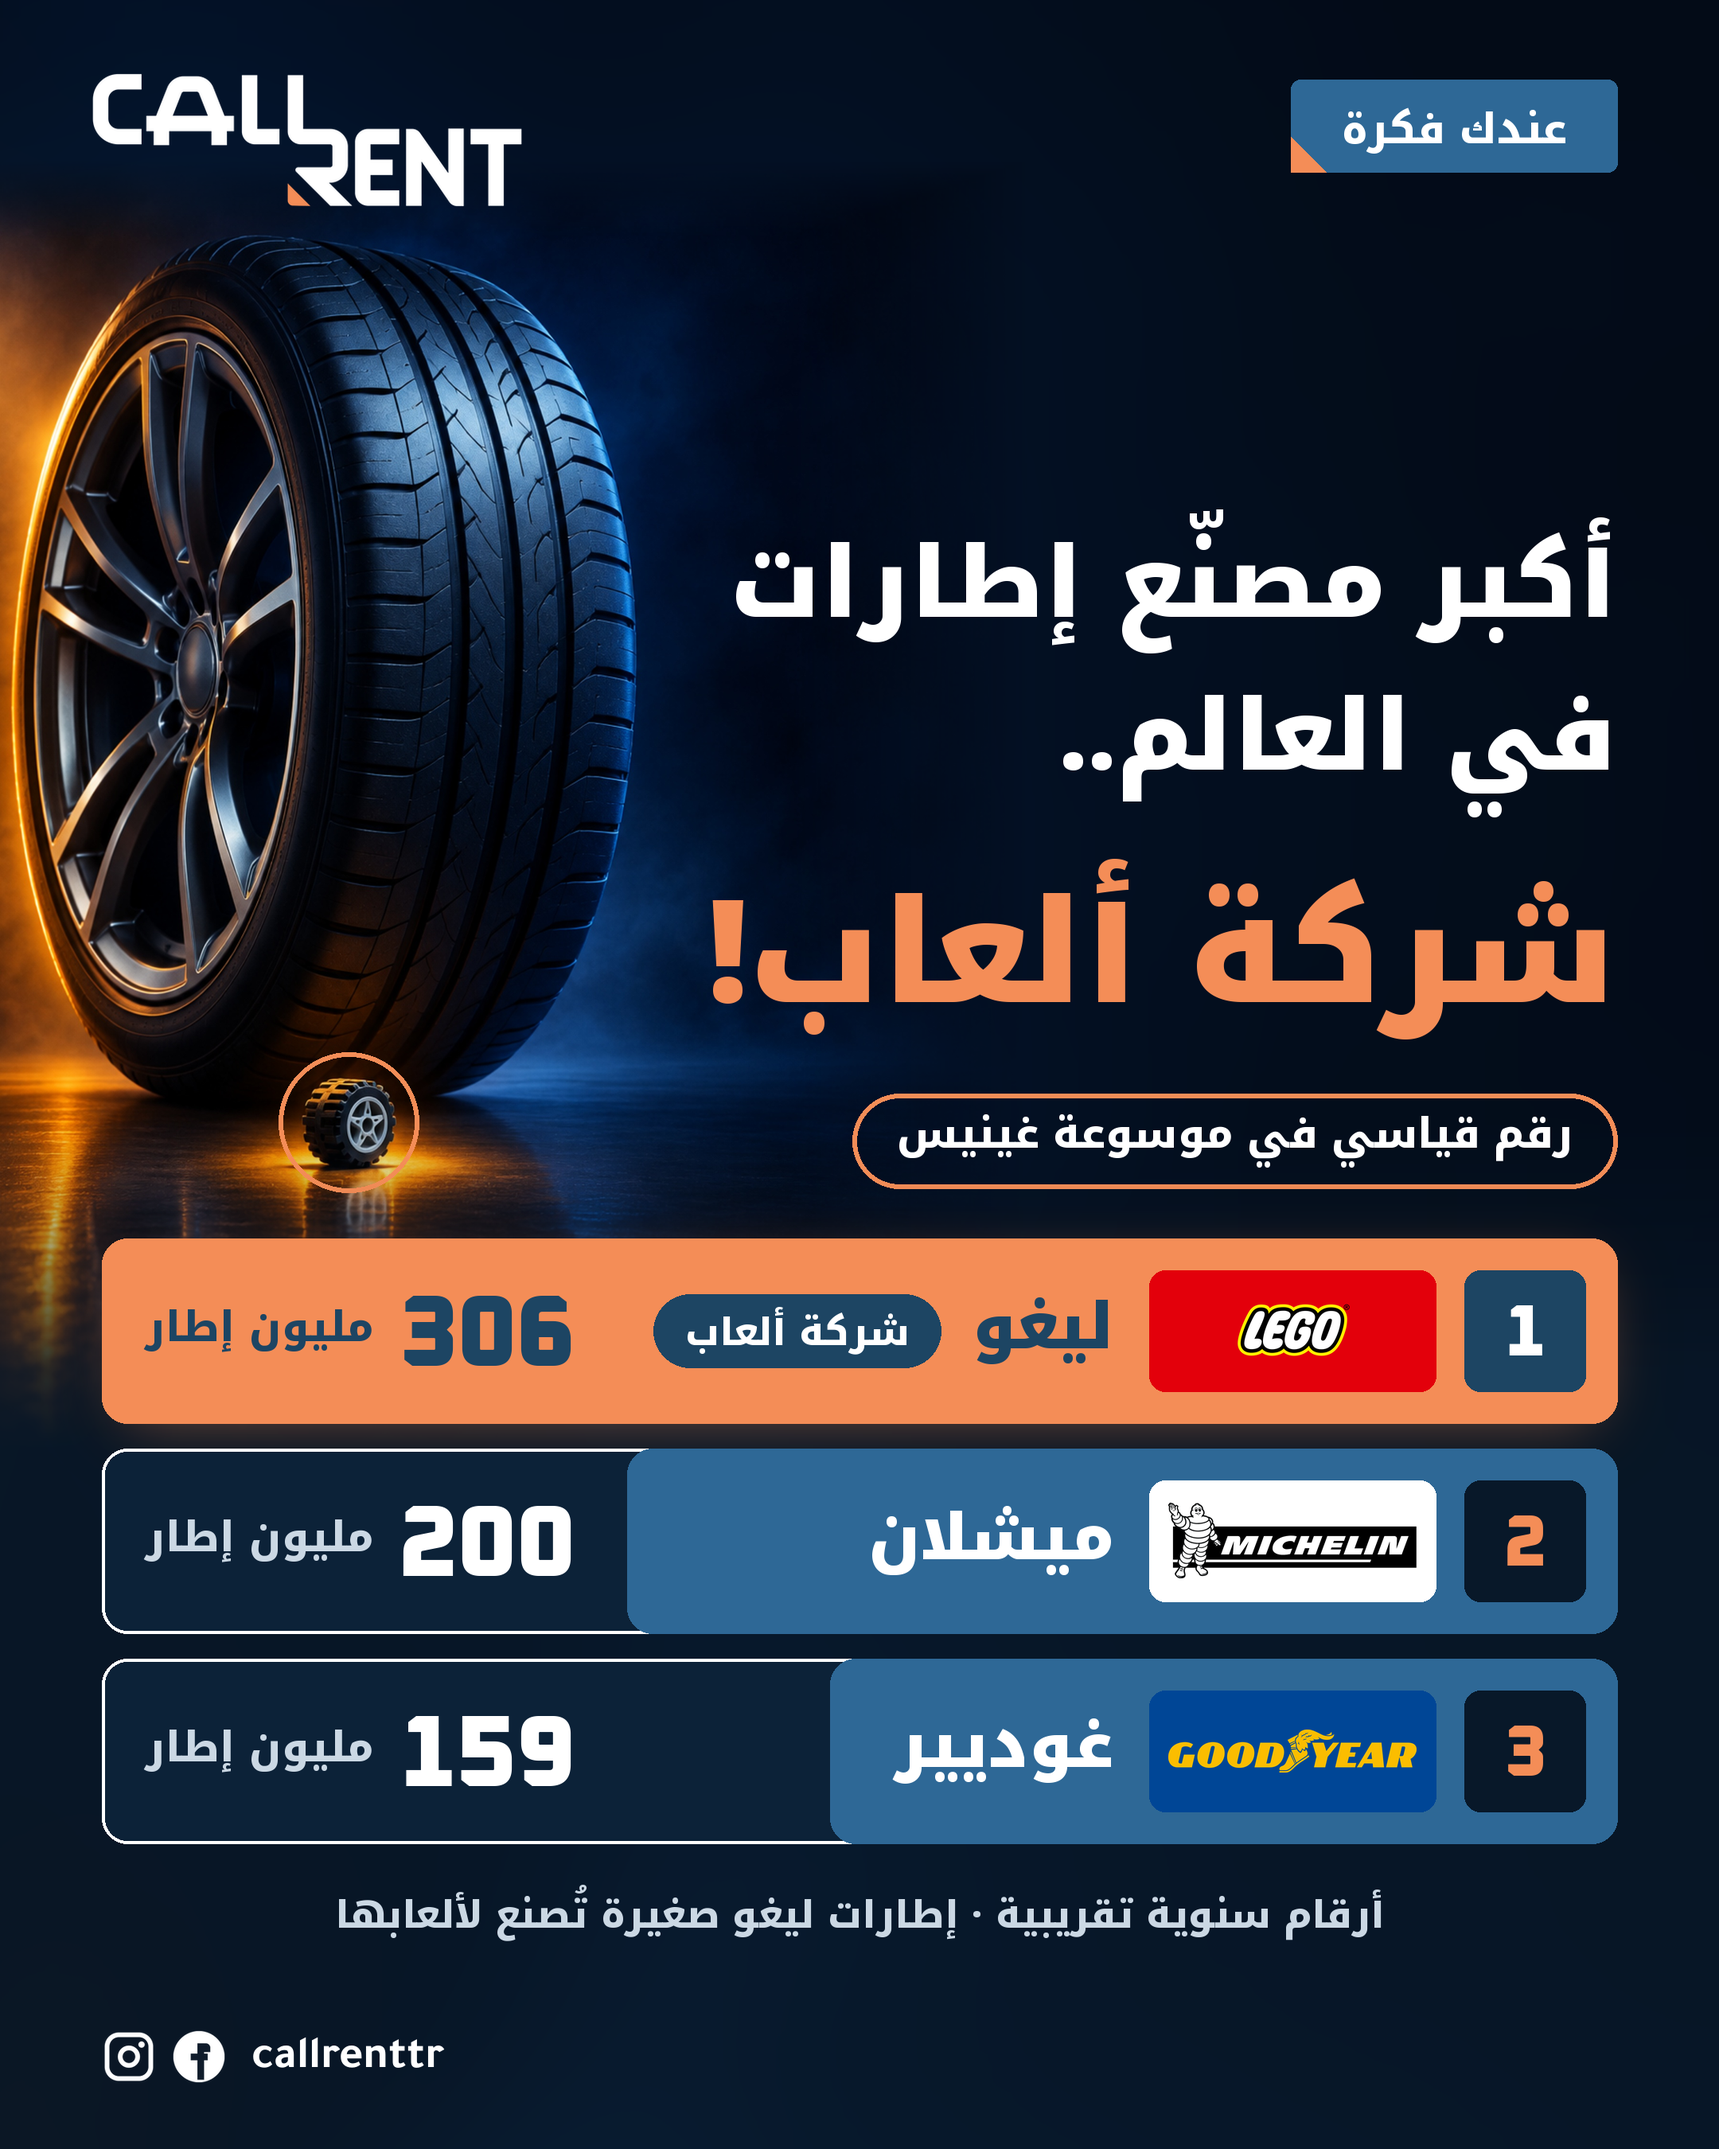
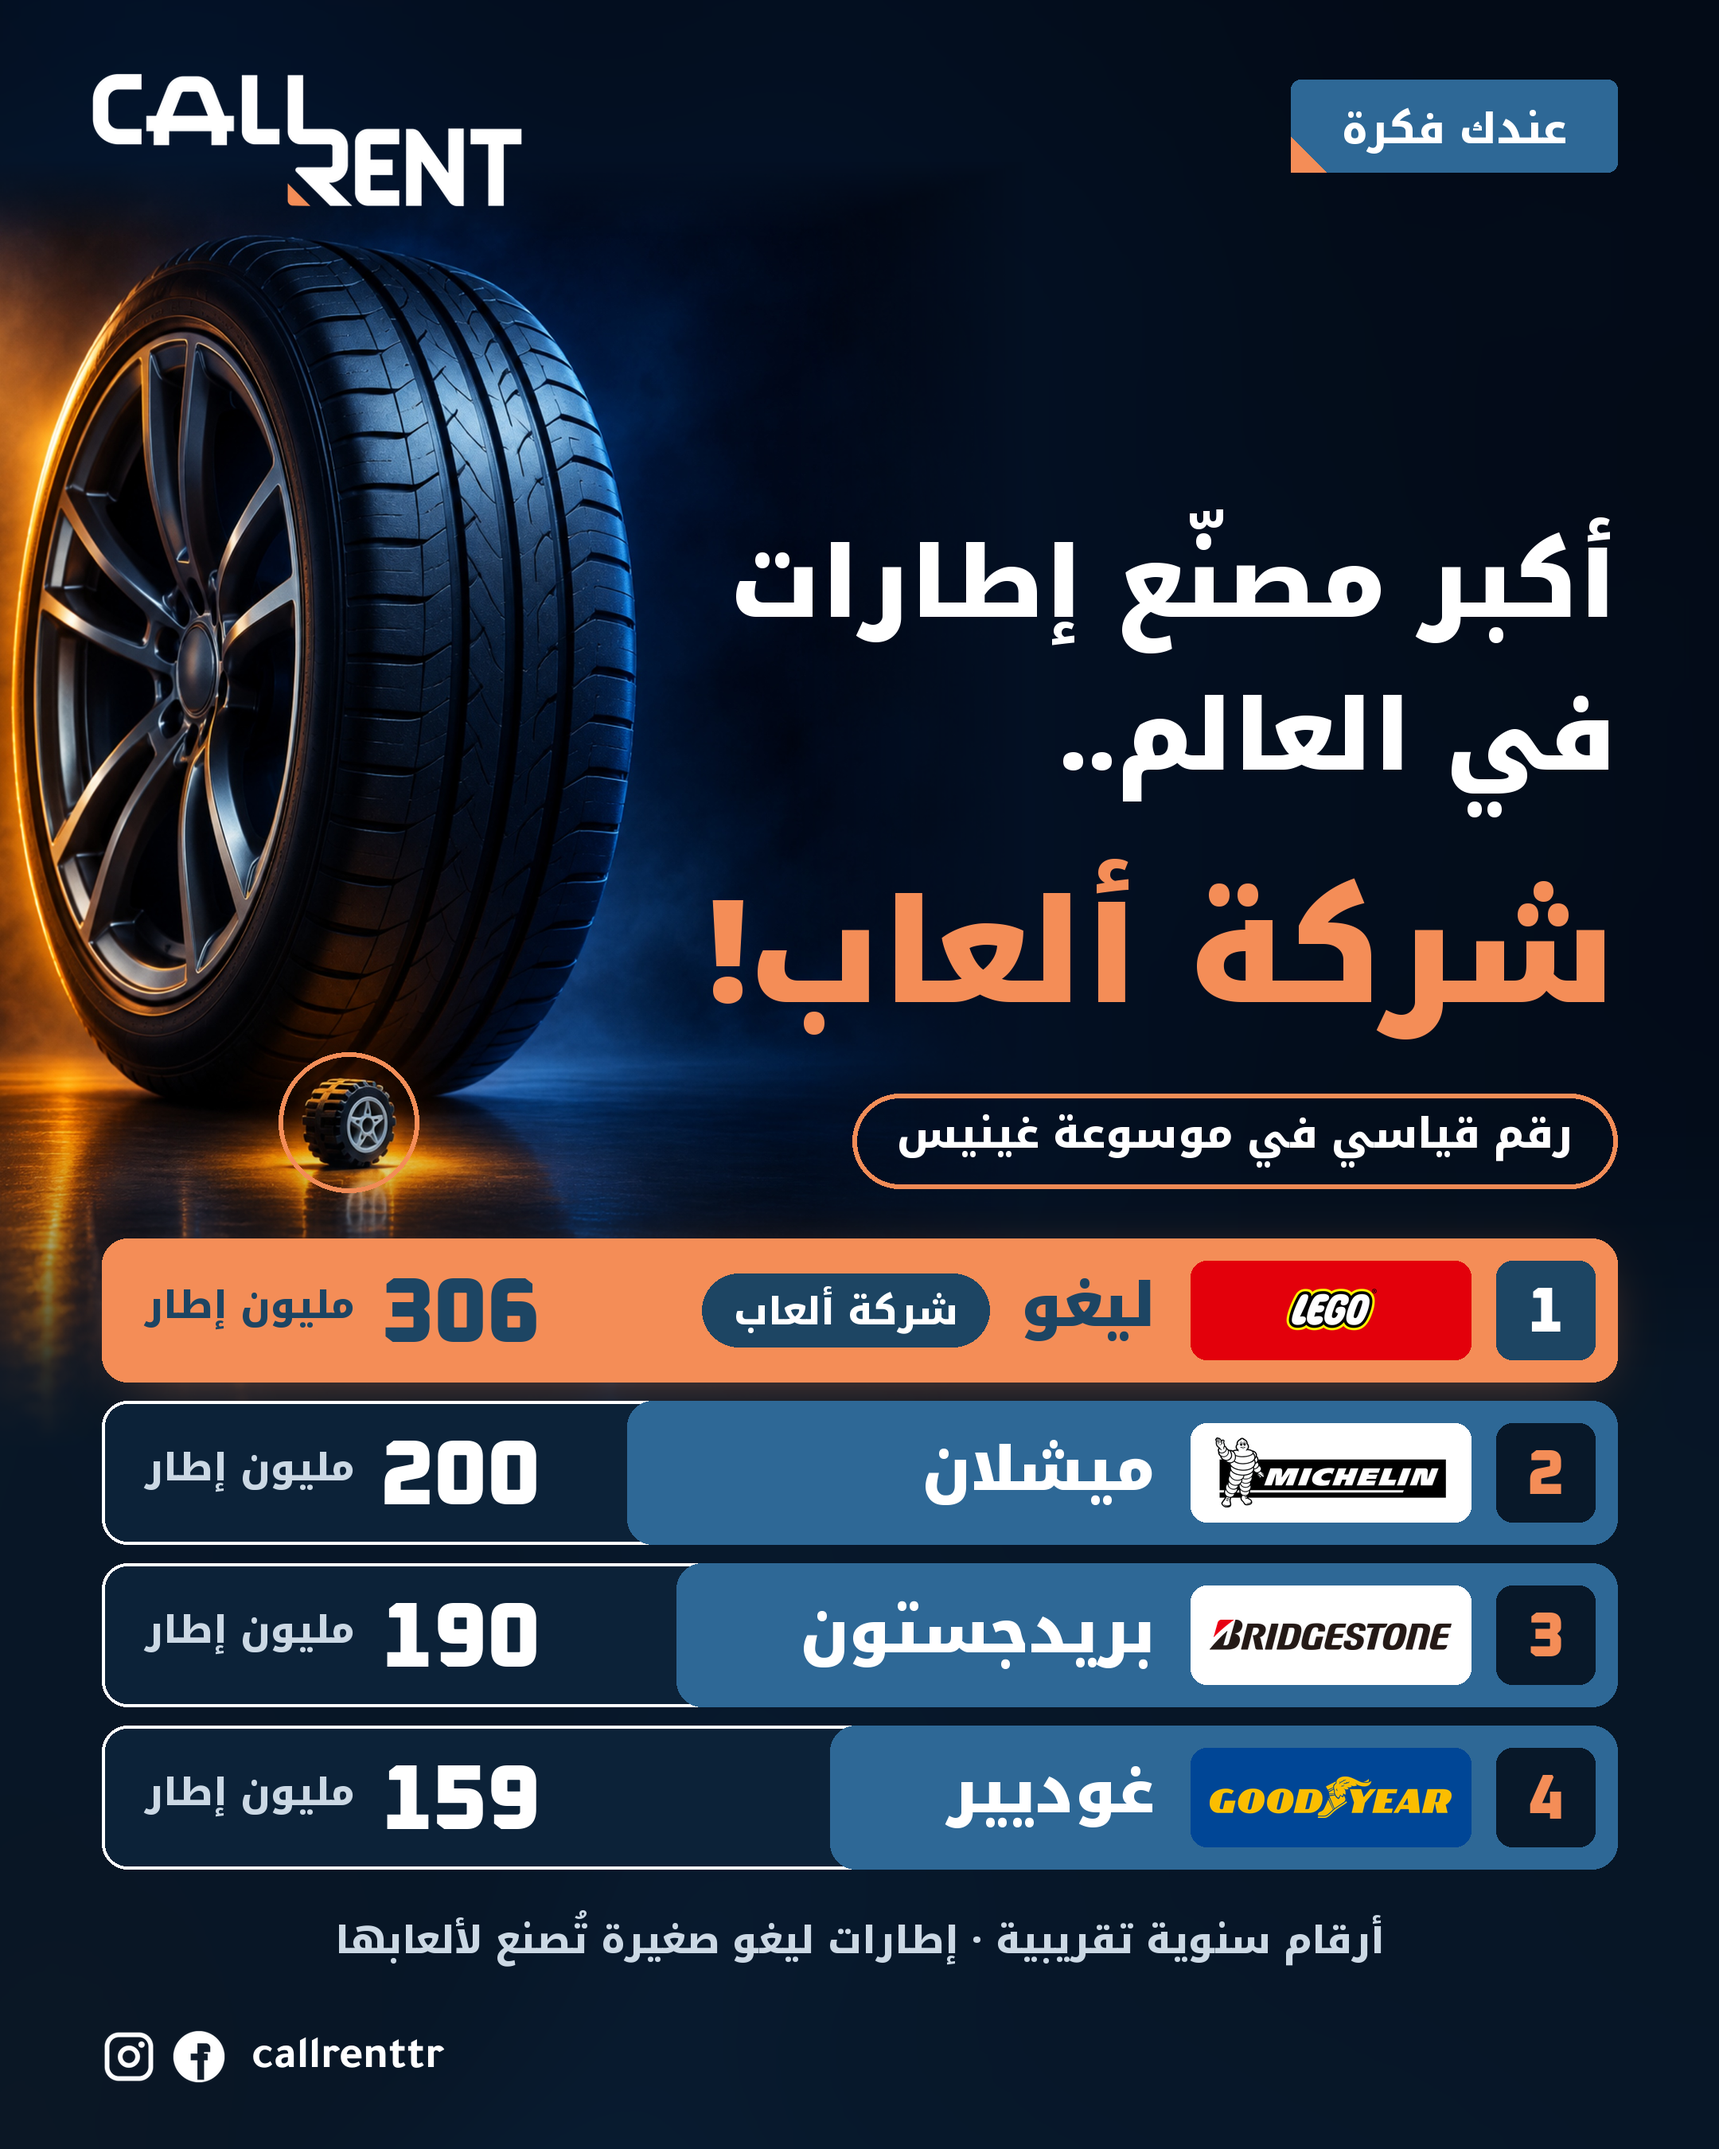
Tyre makers idea post: Bridgestone back in the ranking at its 2011 figure (190), four rows
Claude-Session: https://claude.ai/code/session_01JWxxZZBXcuDznNNTjM86b7

Changed region(s): [[0.062, 0.56, 0.9616, 0.9333]]

diff --git a/marketing/news/idea_lego_tyres.py b/marketing/news/idea_lego_tyres.py
@@ -5,7 +5,7 @@ Photo: Canva (idea-tyres-bg.jpg): a full-size tyre with a tiny toy tyre in front
 Logos: the four companies' own marks (logo-*.png), each on a plate in its row.
 Figures (approximate, latest available for each, the year is not printed): LEGO about 306 m a year (Guinness
 World Records), Michelin nearly 200 m in 2024 (press report), Goodyear 158.7 m in 2025 (annual report).
-Bridgestone is left out: it publishes output by weight, not by count.
+Bridgestone publishes output by weight, not by count, so its row keeps the 2011 figure (190 m), at the user's request.
 The photo is scaled down into the top-left so the headline has the dark right side to itself; the canvas
 around it is the same photo enlarged and blurred. Layout in 1080 units; every line is placed from its
 measured ink box with at least 24 units clear.
@@ -68,28 +68,28 @@ def headline(d):
 
 # name, million tyres a year (latest figure available for each), logo file, colour of the plate the logo sits on
 ROWS = [('ليغو', 306, 'logo-lego.png', (227, 0, 11)), ('ميشلان', 200, 'logo-michelin.png', (255, 255, 255)),
-        ('غوديير', 159, 'logo-goodyear.png', (0, 70, 150))]
-Y0, RH, GAP = 778, 116, 16
+        ('بريدجستون', 190, 'logo-bridgestone.png', (255, 255, 255)), ('غوديير', 159, 'logo-goodyear.png', (0, 70, 150))]
+Y0, RH, GAP = 778, 90, 12
 
 
 def table(cv):
     glow = Image.new('RGBA', (W*K, H*K), (0, 0, 0, 0))               # soft orange glow under the winner
     ImageDraw.Draw(glow).rounded_rectangle((M*K, (Y0 + 6)*K, R_*K, (Y0 + RH + 10)*K), radius=18*K, fill=O + (120,))
     cv.alpha_composite(glow.filter(ImageFilter.GaussianBlur(22*K)))
-    d = nc.Draw(cv); fn = F(AR_BLACK, 40); fv = F(OX, 64); fu = F(AR_BOLD, 26); fr = F(OX, 46)
+    d = nc.Draw(cv); fn = F(AR_BLACK, 38); fv = F(OX, 58); fu = F(AR_BOLD, 24); fr = F(OX, 40)
     for i, (name, val, logo, plate) in enumerate(ROWS):
         y = Y0 + i*(RH + GAP); cy = y + RH/2; top = i == 0
         d.rounded_rectangle((M, y, R_, y + RH), radius=16, fill=(12, 34, 56, 235), outline=(255, 255, 255, 34), width=2)
         x0 = R_ - (R_ - M)*val/ROWS[0][1]                             # bar length is the share of the winner's output
         d.rounded_rectangle((x0, y, R_, y + RH), radius=16, fill=(O if top else IDEA_BLUE) + (255,))
-        q = 76; qx = R_ - 20 - q                                      # rank square
+        q = 62; qx = R_ - 14 - q                                      # rank square
         d.rounded_rectangle((qx, cy - q/2, qx + q, cy + q/2), radius=10, fill=(N if top else DEEP) + (255,))
         up, dn, tw = ink(str(i + 1), fr, False)
         d.text((qx + q/2 - tw/2, cy + (up - dn)/2), str(i + 1), font=fr, fill=(Wh if top else O) + (255,), anchor='ls')
-        pw, pp = 180, 76; lx1 = qx - 18                               # the company's logo on its own plate
+        pw, pp = 176, 62; lx1 = qx - 16                               # the company's logo on its own plate
         d.rounded_rectangle((lx1 - pw, cy - pp/2, lx1, cy + pp/2), radius=10, fill=plate + (255,))
         lg = Image.open(os.path.join(HERE, logo)).convert('RGBA')
-        sc = min((pw - 24)*K/lg.width, (pp - (4 if lg.width == lg.height else 22))*K/lg.height)
+        sc = min((pw - 24)*K/lg.width, (pp - (4 if lg.width == lg.height else 18))*K/lg.height)
         lg = lg.resize((round(lg.width*sc), round(lg.height*sc)), Image.LANCZOS)
         cv.alpha_composite(lg, (round((lx1 - pw/2)*K - lg.width/2), round(cy*K - lg.height/2)))
         nx = lx1 - pw - 22; up, dn, nw = ink(name, fn)
